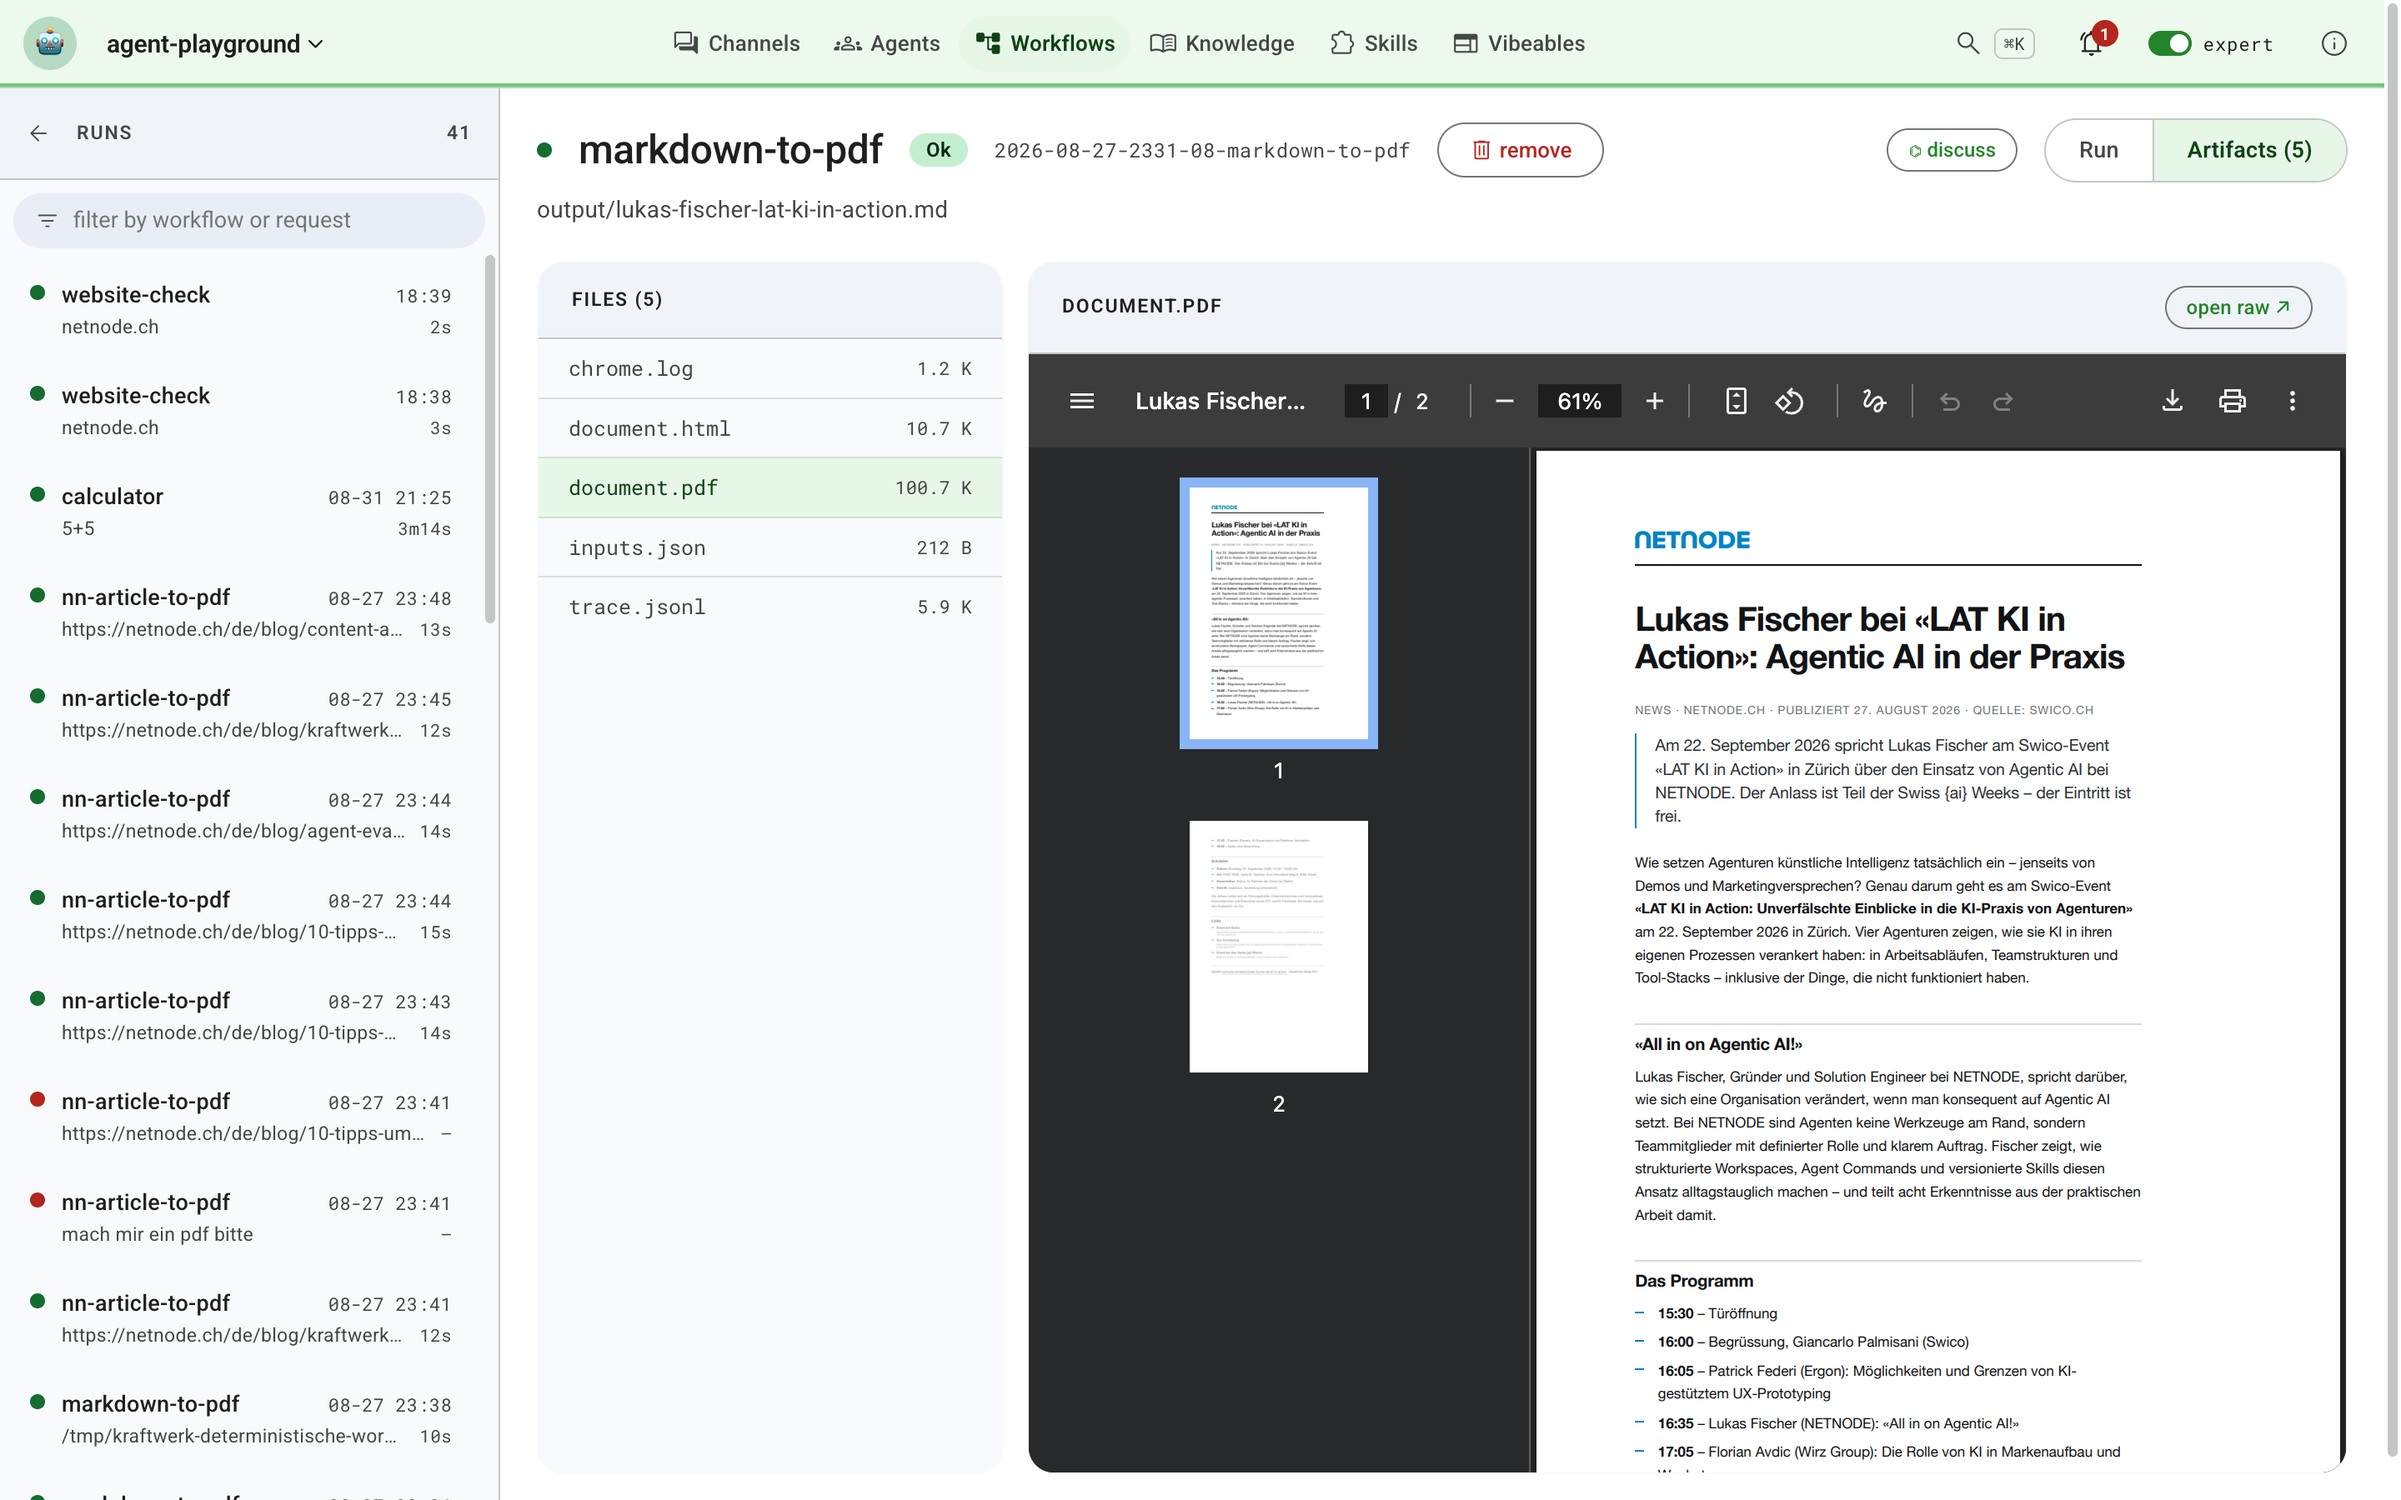
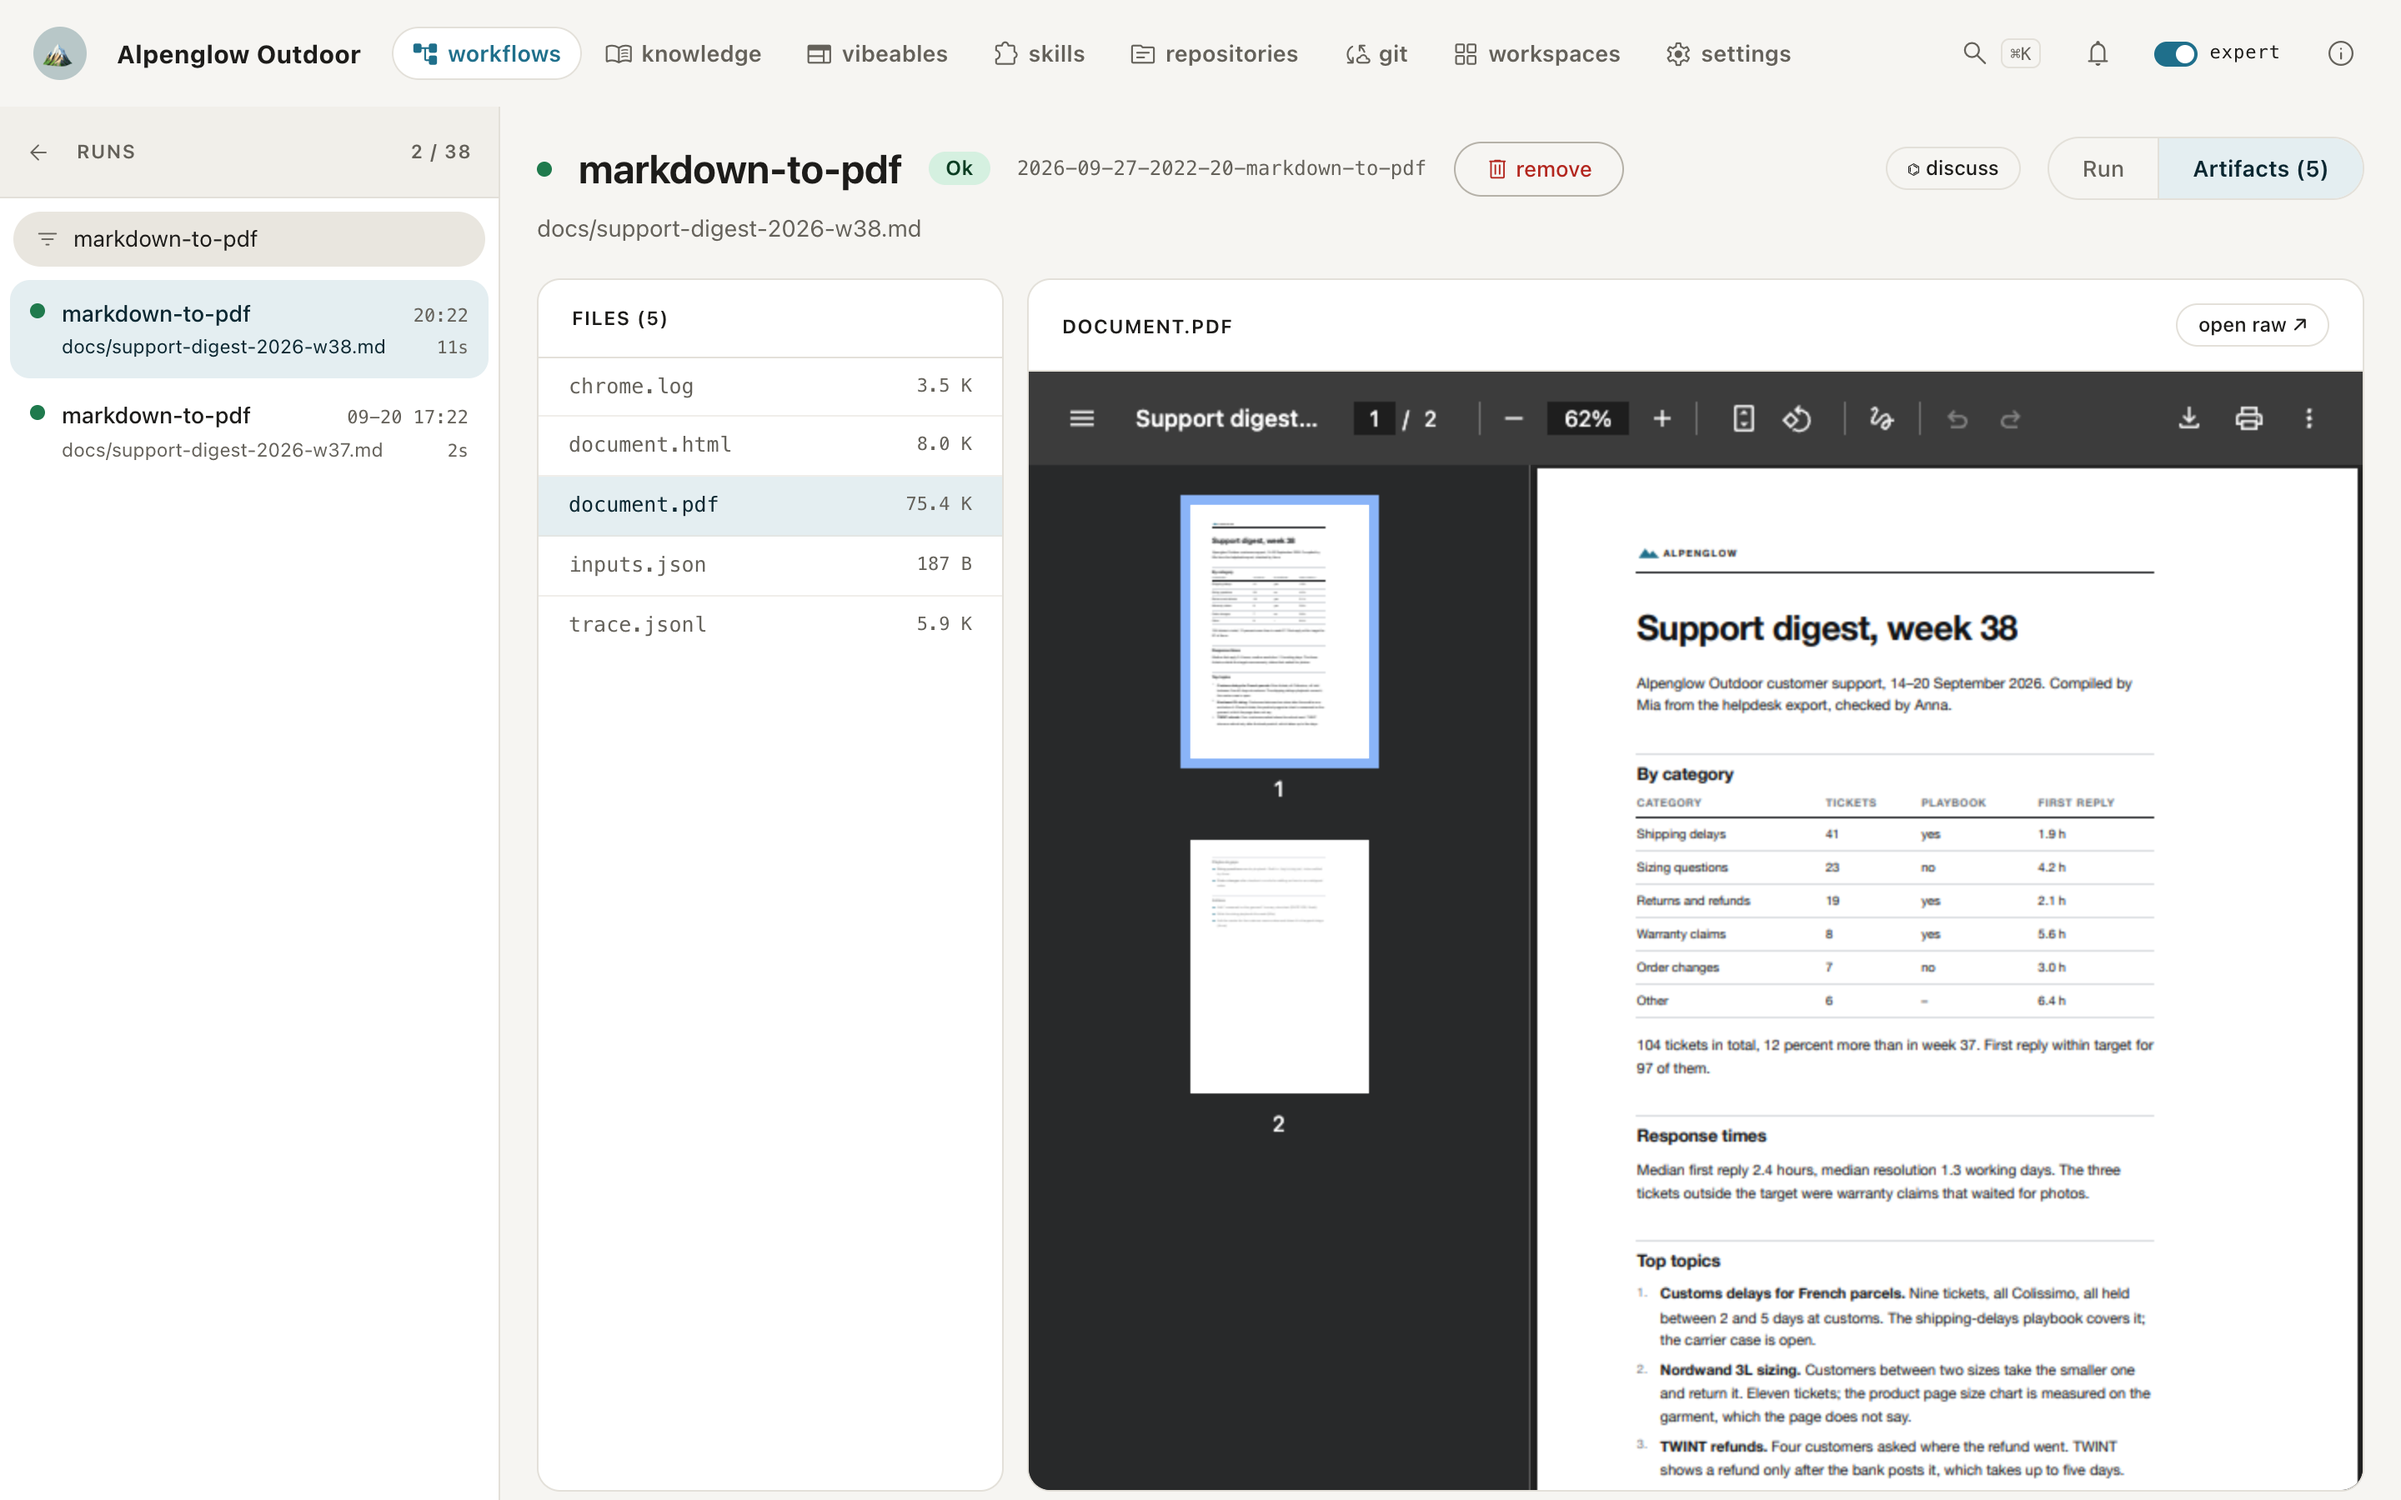
README: new screenshots from a fictional demo workspace
Six inspector screenshots of "Alpenglow Outdoor", a made-up outdoor-gear
shop: home, a project chat, a channel, a knowledge page, a finished run
with its PDF, and the release-approval board in the dark theme. The old
dashboard image is gone; run and workflows images are replaced.

Claude-Session: https://claude.ai/code/session_011G39Li6bSaZJgDcrxS4rfd

diff --git a/README.md b/README.md
@@ -1,6 +1,6 @@
 # Kraftwerk
 
-<img src="assets/dashboard-light.png" alt="The kraftwerk inspector: a workspace dashboard with its agents, quick actions and the activity feed" width="100%"/>
+<img src="assets/home-light.png" alt="The kraftwerk inspector: the workspace home with projects, agents and channels in the rail, today's activity in the middle, and the workflows beside it" width="100%"/>
 
 **Agentic workspace.** Kraftwerk is an open-source agentic workspace where
 humans and persistent AI coworkers work on real tasks together. Agents,
@@ -69,6 +69,8 @@ workflows: [website-check, accessibility-audit]
 agents: [max]
 ```
 
+<img src="assets/project-chat-light.png" alt="A project chat: the session reads the brief and the brand knowledge, writes the draft, and the project's workflows, knowledge and records sit in the context column beside it" width="100%"/>
+
 **Agents.** Persistent AI coworkers, each with its own identity and memory,
 running on Claude Code, Codex, Pi, and others. An agent has a name, an emoji,
 a role, a harness and model to run on, and the workflows and knowledge that
@@ -87,6 +89,8 @@ workflows: [tagline, website-check]
 knowledge: [customer-support]   # bundles it consults & maintains
 ```
 
+<img src="assets/channel-light.png" alt="A channel: a person and two agents in one room; an @mention wakes an agent, and the support playbook is updated from the conversation" width="100%"/>
+
 **Knowledge.** Shared organisational and project context, kept as
 [OKF](https://github.com/GoogleCloudPlatform/knowledge-catalog/blob/main/okf/SPEC.md)
 bundles. Every page is plain markdown, and its frontmatter records who wrote
@@ -94,6 +98,8 @@ it, from what, who confirmed it, and how long it stays current. Agents read
 and write these pages in chats and mid-workflow. People browse them like a
 wiki, edit in a document editor with autosave, verify with one click, and
 export a bundle or a single page as PDF.
+
+<img src="assets/knowledge-light.png" alt="A knowledge page in the editor: who generated it and when, its trust tier, when it goes stale, and a one-click human verification" width="100%"/>
 
 **Skills.** Instruction packages a team writes once and every agent can use.
 Type `/` in any chat to invoke one. The same skill works on claude, codex and
@@ -250,7 +256,7 @@ one line (`KRAFTWERK_YES=1 npx @netnodeag/kraftwerk run <name> "..." --json`),
 and a shared workflow library in its own repo runs anywhere via
 `--from github:org/repo`.
 
-<img src="assets/workflows-dark.png" alt="The workflows screen in the dark theme: every workflow with its run count, last outcome and a run button" width="100%"/>
+<img src="assets/workflows-dark.png" alt="The workflows screen in the dark theme: every workflow with its run count and last outcome, and the release-approval board with a run waiting for a human decision in the review column" width="100%"/>
 
 ### Explore the playground
 
